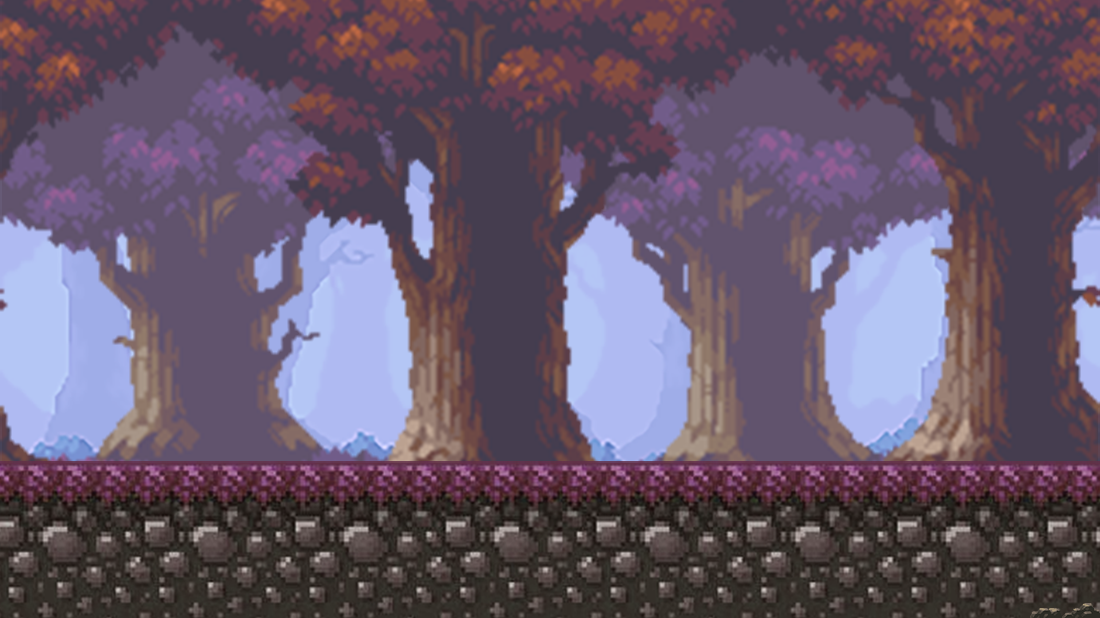
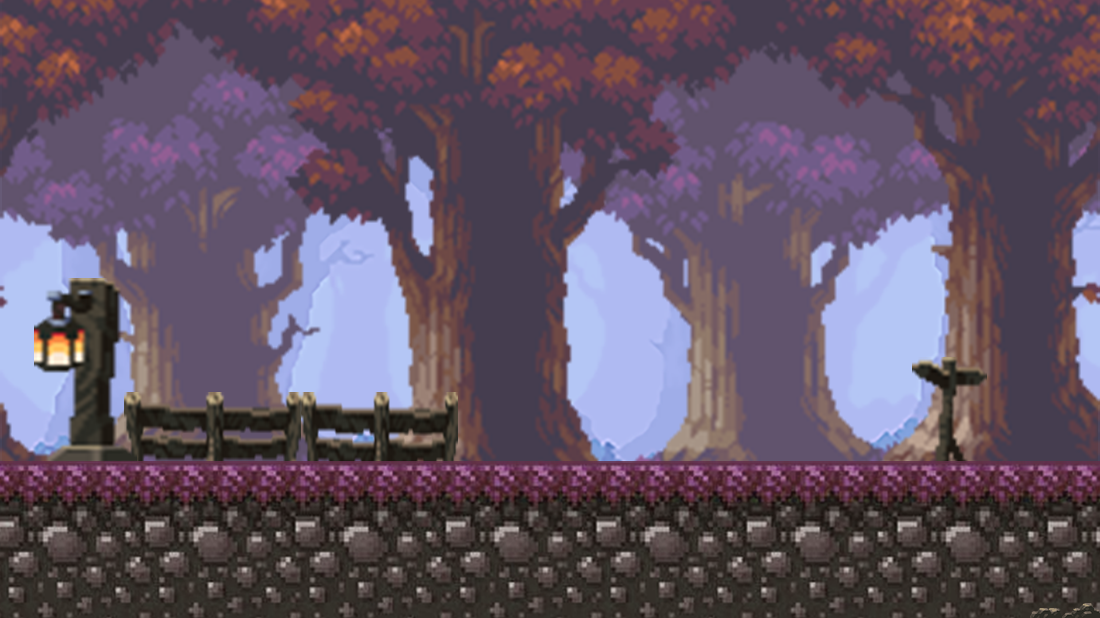
animacao_shop

diff --git a/game_luta/js/classes.js b/game_luta/js/classes.js
@@ -1,18 +1,41 @@
 class Sprite {
-    constructor({position,imageSrc}){
+    constructor({position,imageSrc,scale = 1, framesMax = 1}){
         this.position = position
         this.width = 50
         this.height = 150
         this.image = new Image()
         this.image.src = imageSrc
+        this.scale = scale
+        this.framesMax = framesMax
+        this.framesCurrent = 0
+        this.framesElapsed = 0
+        this.framesHold = 5
     }
 
     draw() {
-        c.drawImage(this.image,this.position.x,this.position.y)
+        c.drawImage(
+            this.image,
+            this.framesCurrent * (this.image.width/ this.framesMax),
+            0,
+            this.image.width / this.framesMax,
+            this.image.height,
+            this.position.x,
+            this.position.y,
+            (this.image.width / this.framesMax) * this.scale,
+            this.image.height * this.scale
+        )
     }
 
     update() {
         this.draw()
+        this.framesElapsed++
+        if(this.framesElapsed % this.framesHold === 0){
+            if(this.framesCurrent < this.framesMax - 1){
+                this.framesCurrent++
+            }else{
+                this.framesCurrent = 0
+            } 
+        }
     }
 }
 

diff --git a/game_luta/index.js b/game_luta/index.js
@@ -15,6 +15,15 @@ const background = new Sprite({
     },
     imageSrc: './img/background_layer_1.png'
 })
+const shop = new Sprite({
+    position: {
+        x: 500,
+        y: 110
+    },
+    imageSrc: './img/shop_anim.png',
+    scale: 2.75,
+    framesMax: 6
+})
 
 const player = new Fighter({
         position: {
@@ -73,6 +82,7 @@ function animate() {
     c.fillStyle = 'black'
     c.fillRect(0, 0, canvas.width, canvas.height)
     background.update()
+    shop.update()
     player.update()
     enemy.update()
 
